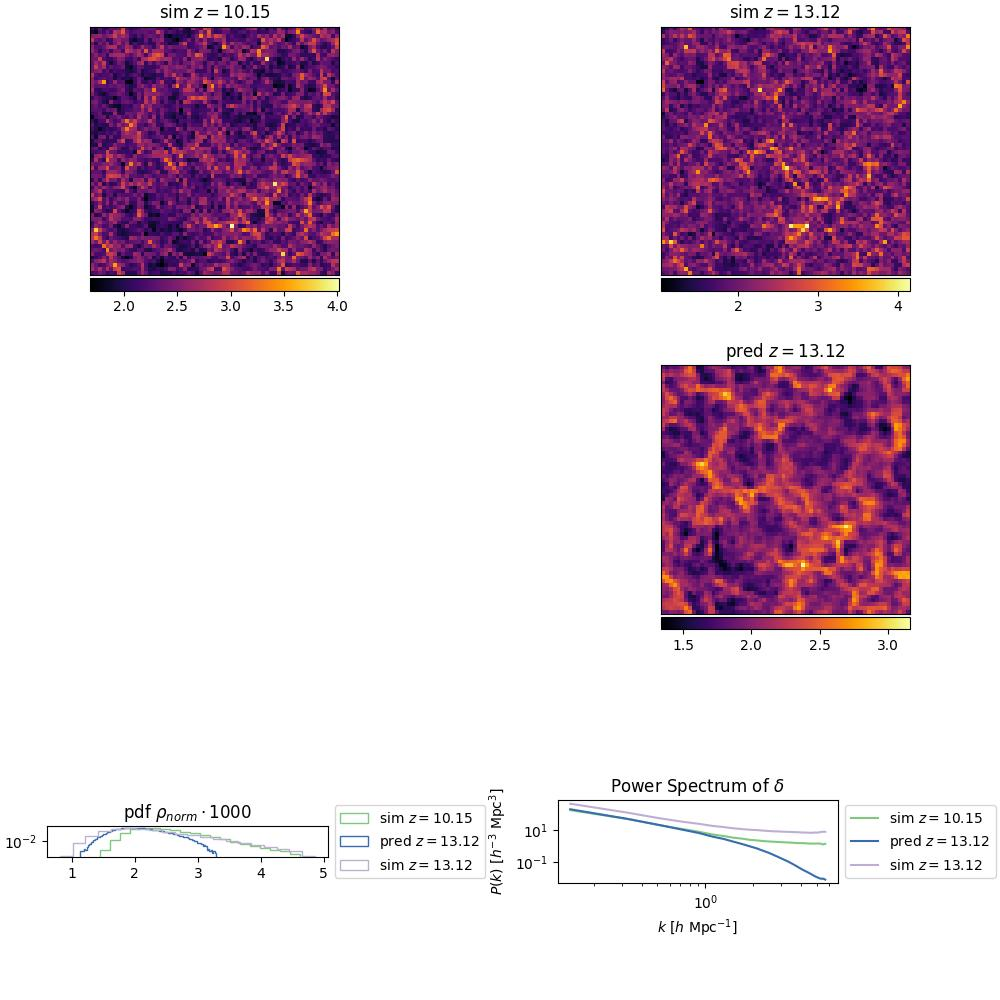
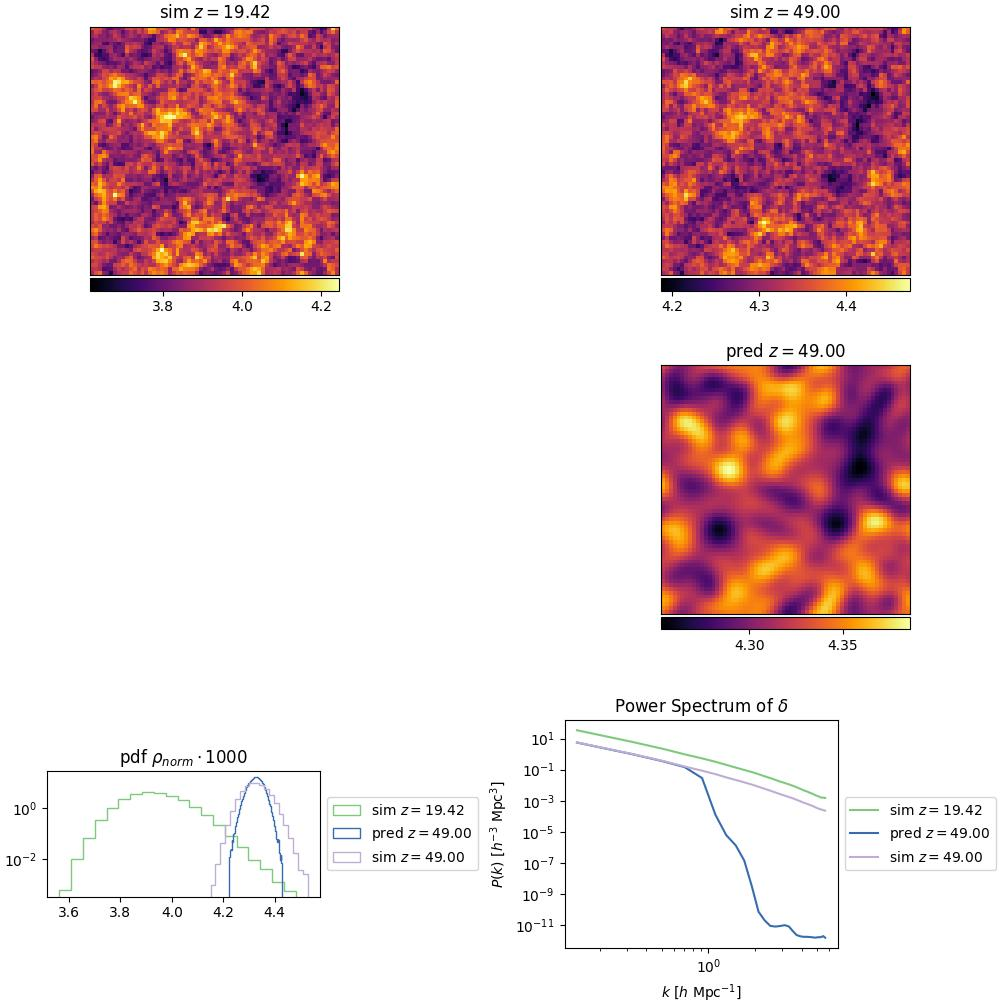
add k filters

diff --git a/src/visualize/compare.py b/src/visualize/compare.py
@@ -50,34 +50,6 @@ def compare(
     ax_seq.tick_params(left=False, bottom=False, labelleft=False, labelbottom=False)
     im_seq = ax_seq.imshow(normalized[grid_size // 2, :, :], cmap='inferno')
 
-    N = normalized.shape[1]
-    print(normalized.shape)
-    # x shape : n_channels, N, N, N
-    # x_fs shape : n_channels, N, N, N // 2, 2
-
-    norm_fs = jnp.fft.rfftn(normalized, s=(N, N, N), axes=(0, 1, 2))
-    kx = jnp.fft.fftfreq(N)[:, None, None]
-    ky = jnp.fft.fftfreq(N)[None, :, None]
-    kz = jnp.fft.rfftfreq(N)[None, None, :]
-
-    print(norm_fs.shape)
-
-    k_squared = kx**2 + ky**2 + kz**2
-    cutoff_k_squared = (1.0 / 4)**2
-
-    # Mask out higher wavelengths
-    mask = (k_squared <= cutoff_k_squared)[:, :, :, None]
-    # mask = k_squared <= cutoff_k_squared
-    norm_fs_filtered = norm_fs * mask
-
-    # Transform back to real space
-    norm_filtered = jnp.fft.irfftn(norm_fs_filtered, s=(N, N, N), axes=(0, 1, 2))
-
-    ax_seq = fig.add_subplot(spec_sequence[0, 0])
-    ax_seq.set_title(r'$\rho_{norm}$')
-    ax_seq.tick_params(left=False, bottom=False, labelleft=False, labelbottom=False)
-    im_seq = ax_seq.imshow(norm_filtered[grid_size // 2, :, :], cmap='inferno')
-
     p, k = get_power(delta[:, :, :, 0], config.box_size)
     ax_power.plot(
         k,
@@ -113,12 +85,39 @@ def compare(
         attribs = jax.device_put(attributes_curr[frame + 1], device=jax.devices("gpu")[0])
         rho_pred = normalize_inv(rho_pred_normalized, attribs,  norm_functions[idx])
         delta_pred = compute_overdensity(rho_pred)
-        
+
+        normalized = sequence_curr[0]
+        N = normalized.shape[1]
+        # x shape : n_channels, N, N, N
+        # x_fs shape : n_channels, N, N, N // 2, 2
+
+        norm_fs = jnp.fft.rfftn(normalized, s=(N, N, N), axes=(0, 1, 2))
+        kx = jnp.fft.fftfreq(N)[:, None, None]
+        ky = jnp.fft.fftfreq(N)[None, :, None]
+        kz = jnp.fft.rfftfreq(N)[None, None, :]
+
+        print(norm_fs.shape)
+
+        k_squared = kx**2 + ky**2 + kz**2
+        cutoff_k_squared = 0.02
+
+        # Mask out higher wavelengths
+        mask = (k_squared <= cutoff_k_squared)[:, :, :, None]
+        # mask = k_squared <= cutoff_k_squared
+        norm_fs_filtered = norm_fs * mask
+
+        # Transform back to real space
+        norm_filtered = jnp.fft.irfftn(norm_fs_filtered, s=(N, N, N), axes=(0, 1, 2))
+        rho_pred_filtered = normalize_inv(norm_filtered, attribs,  norm_functions[idx])
+        delta_pred_filtered = compute_overdensity(rho_pred_filtered)
+
         ax_seq = fig.add_subplot(spec_sequence[0, idx+1])
-        ax_seq.set_title(r'$\delta - \hat{\delta}$')
+        # ax_seq.set_title(r'$\delta - \hat{\delta}$')
+        ax_seq.set_title(r'input $\rho$')
         ax_seq.tick_params(left=False, bottom=False, labelleft=False, labelbottom=False)
-        im_seq = ax_seq.imshow(normalized[grid_size // 2, :, :] - rho_pred_normalized[grid_size // 2, :, :], cmap='RdYlBu')
-        
+        # im_seq = ax_seq.imshow(normalized[grid_size // 2, :, :] - rho_pred_normalized[grid_size // 2, :, :], cmap='RdYlBu')
+        im_seq = ax_seq.imshow(norm_filtered[grid_size // 2, :, :], cmap='inferno')
+
         divider = make_axes_locatable(ax_seq)
         cax = divider.append_axes('bottom', size='5%', pad=0.03)
         fig.colorbar(im_seq, cax=cax, orientation='horizontal')
@@ -159,6 +158,11 @@ def compare(
         ax_power.plot(
             k_pred, p_pred,
             label=fr'from {labels[idx]}')
+        
+        p_pred, k_pred = get_power(delta_pred_filtered[:, :, :, 0], config.box_size)
+        ax_power.plot(
+            k_pred, p_pred,
+            label=fr'filtered z={labels[idx]}')
             # color=colors[frame + 1])
 
     # Finalize plots

diff --git a/src/nn/sequential_model.py b/src/nn/sequential_model.py
@@ -5,8 +5,9 @@ from typing import Callable
 import jax
 from typing import Callable
 import jax.numpy as jnp
-from cosmos import normalize_inv, compute_overdensity, potential
+from cosmos import normalize_inv, compute_overdensity, Potential
 from functools import partial
+
 
 class SequentialModel(eqx.Module):
     """
@@ -55,6 +56,7 @@ class SequentialModel(eqx.Module):
         """
         f, c, d, h, w = x.shape
         y = jnp.zeros((f-1, c, d, h, w))
+        potential = Potential(d)
 
         # potential_fn = cosmos.Potential(d)
         # time_grid = jnp.ones((1, d, w, h))
@@ -84,9 +86,10 @@ class SequentialModel(eqx.Module):
                 # potential = potential_fn(x[i])
                 
                 if self.sequential_skip_channels > 0:
-                    # rho = normalize_inv(x[i], attributes[i], type="log_growth")
-                    # delta = compute_overdensity(rho)
-                    distribution = jnp.concatenate((x[i], secondary_carry), axis=0)
+                    rho = normalize_inv(x[i], attributes[i], type="log_growth")
+                    delta = compute_overdensity(rho)
+                    pot = potential(delta)
+                    distribution = jnp.concatenate((x[i], pot, secondary_carry), axis=0)
                 else:
                     distribution = x[i]
 

diff --git a/src/evaluate.py b/src/evaluate.py
@@ -42,7 +42,7 @@ def main(argv) -> None:
     sequence = jax.device_put(sample['data'], jax.devices('gpu')[0])[1]
     attributes = jax.device_put(sample['attributes'], jax.devices('gpu')[0])[1]
     pred = model(sequence, attributes, False)
-    pred_sequential = model(sequence, attributes, True)
+    # pred_sequential = model(sequence, attributes, True)
 
     attributes = sample["attributes"][0]
 
@@ -50,15 +50,15 @@ def main(argv) -> None:
         "img/prediction_stepwise.jpg", 
         sequence = sequence, 
         config = config,
-        sequence_prediction = pred,
+        sequence_prediction = pred[:, 0:1],
         attributes = attributes)
 
-    visualize.sequence(
-        "img/prediction_sequential.jpg", 
-        sequence = sequence, 
-        config = config,
-        sequence_prediction = pred_sequential,
-        attributes = attributes)
+    # visualize.sequence(
+    #     "img/prediction_sequential.jpg", 
+    #     sequence = sequence, 
+    #     config = config,
+    #     sequence_prediction = pred_sequential,
+    #     attributes = attributes)
 
     # Delete Data Pipeline
     del data_pipeline

diff --git a/src/cosmos/potential.py b/src/cosmos/potential.py
@@ -17,7 +17,7 @@ class Potential(FrequencyOperation):
             s=(self.n_grid, self.n_grid, self.n_grid), 
             axes=(1, 2, 3))
         
-        potential = -4 * jnp.pi * potential * G * self.k
+        potential = -4 * jnp.pi * potential  * self.k # *G
 
         potential = jnp.fft.irfftn(
             field,  
